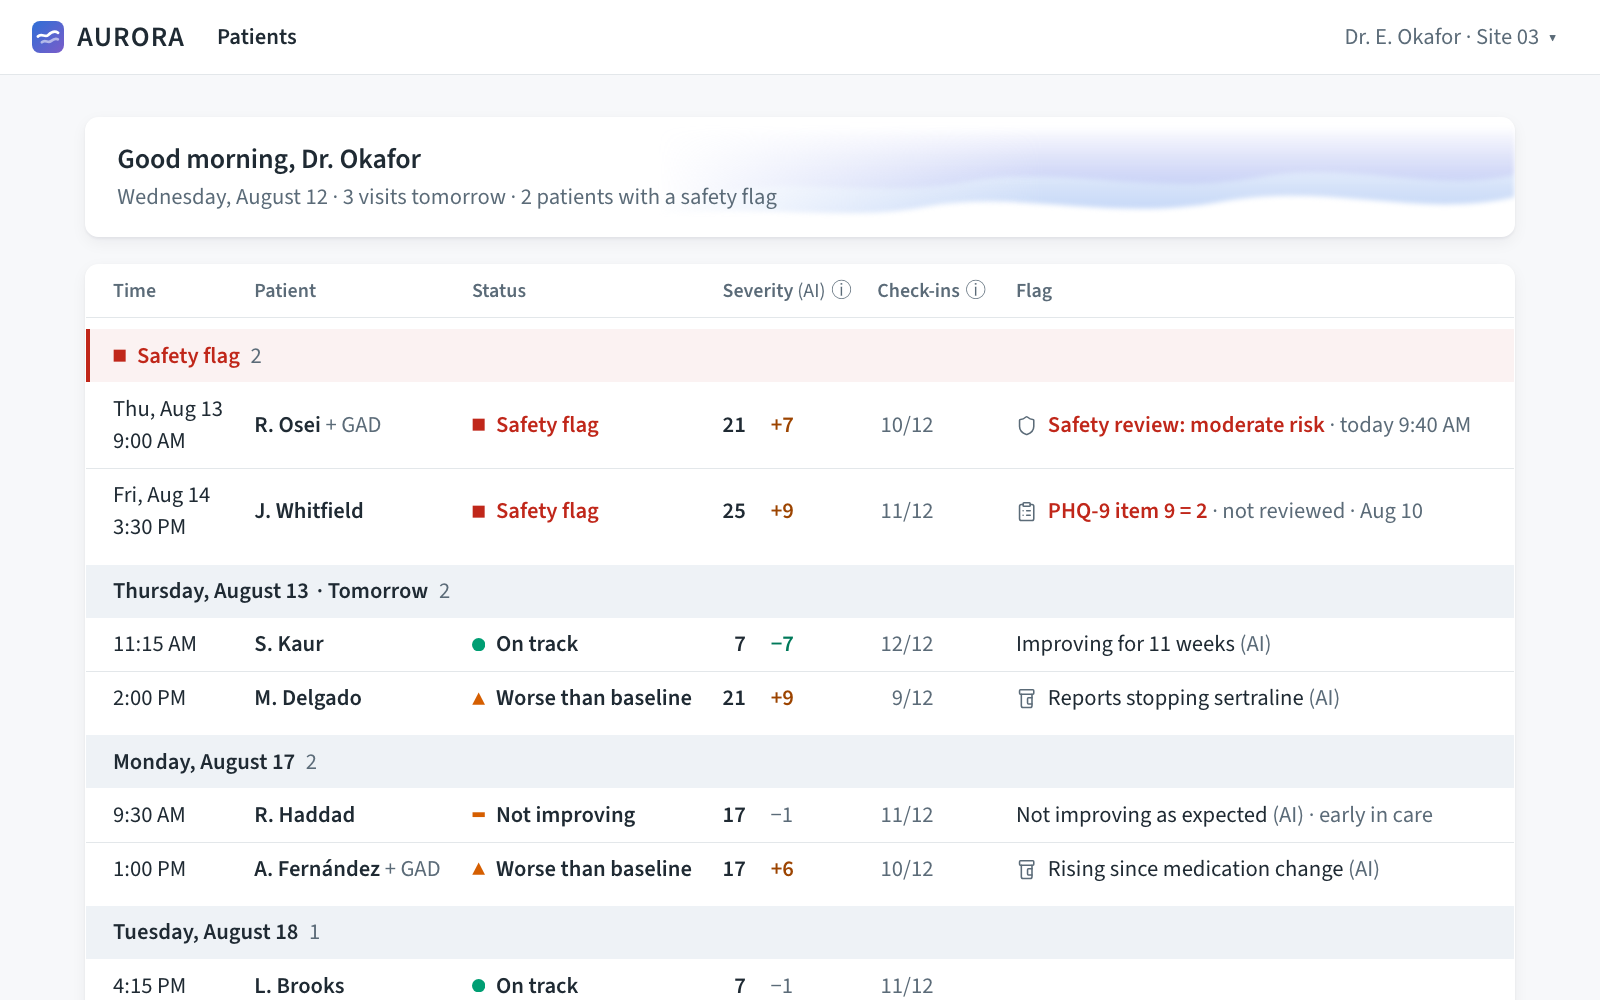
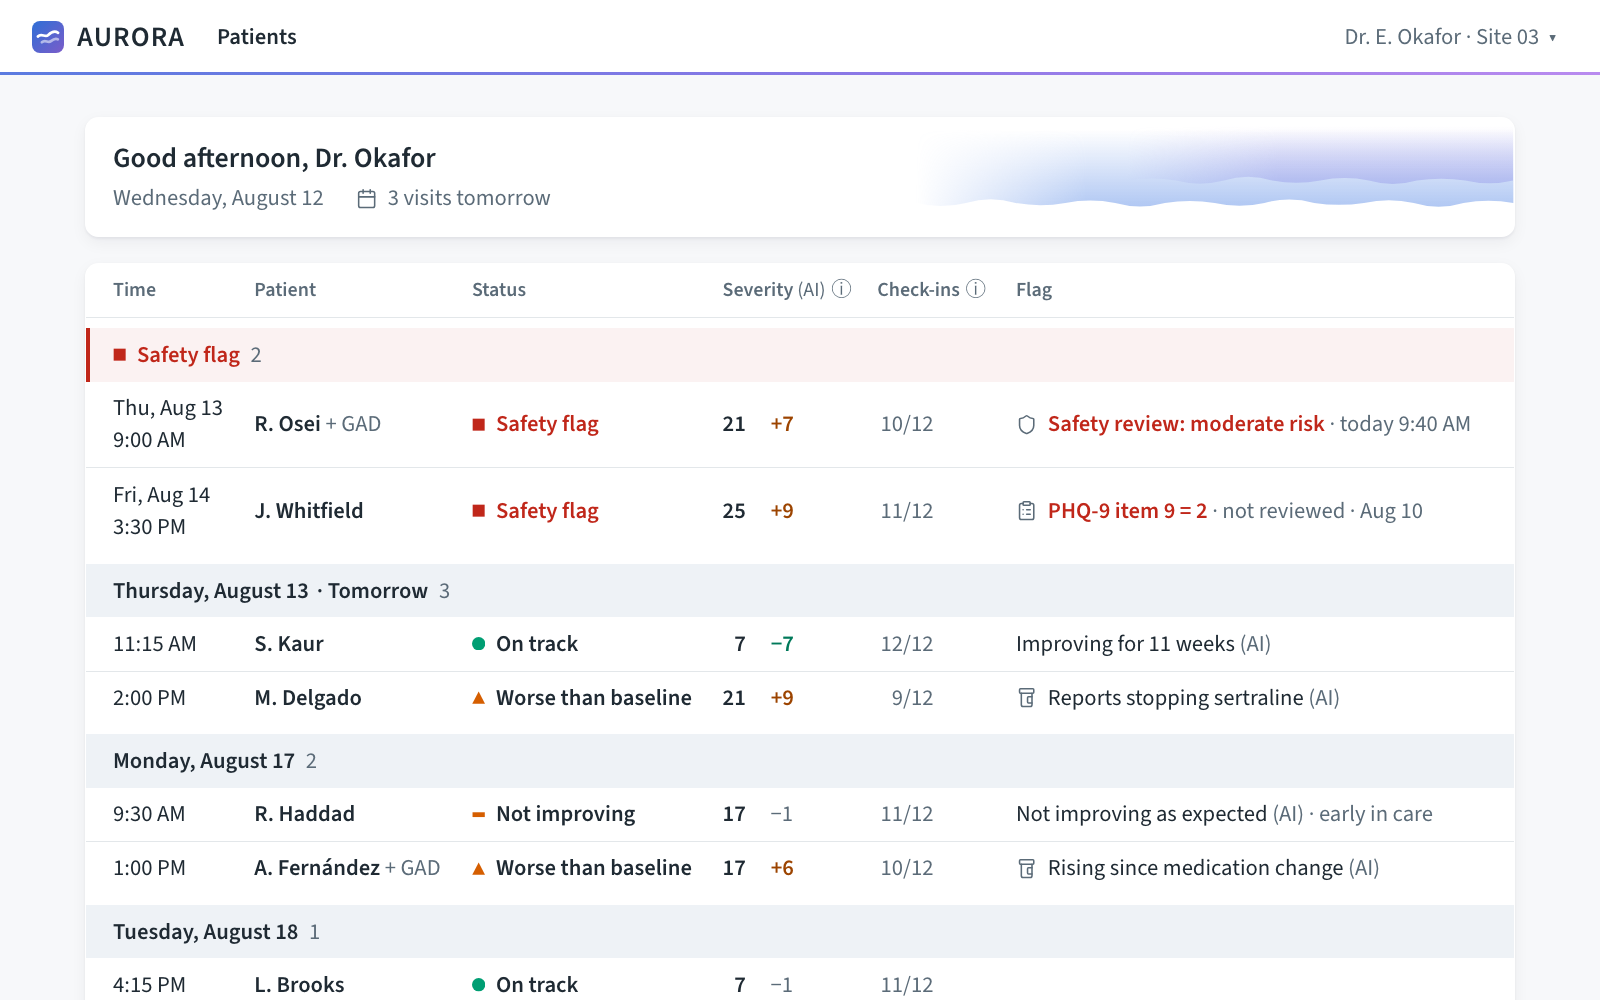
Write the landing page's card and footer lines as full sentences
- v3: "It's built around one question: ..."; v2: "It has a calmer
  caseload ..."; v1: "The first mockup had an EHR-style look ..."
- Footer: "The mockups are part of the AURORA trial, funded by the
  Wellcome Trust. All patient data in them are fictional."
- CHANGELOG: the v1 line as a full sentence, without addressing the
  reader.
- design/landing/v3.png: regenerated for the revised greeting band.

diff --git a/index.html b/index.html
@@ -350,7 +350,7 @@ a.frame:hover{transform:translateY(-3px);box-shadow:var(--shadow-lift)}
           <h2 id="v3-title"><a class="vlink" href="AURORA%20Dashboard%20v3.dc.html">Progress-focused</a></h2>
         </div>
       </div>
-      <p class="summary">Built around one question: is each patient improving as expected?</p>
+      <p class="summary">It’s built around one question: is each patient improving as expected?</p>
       <ul class="points">
         <li>Flags patients who aren’t improving, not only those getting worse</li>
         <li>Puts the patient’s own PHQ-9 first, beside the AI estimate</li>
@@ -384,7 +384,7 @@ a.frame:hover{transform:translateY(-3px);box-shadow:var(--shadow-lift)}
             <h3><a class="vlink" href="AURORA%20Dashboard%20Clinical.dc.html">Clinical</a></h3>
           </div>
         </div>
-        <p class="text">The first mockup, with an EHR-style look: caseload triage, patient detail and session prep, each with four review variants.</p>
+        <p class="text">The first mockup had an EHR-style look: caseload triage, patient detail and session prep, each with four review variants.</p>
         <p class="more-row"><a class="more" href="AURORA%20Dashboard%20Clinical.dc.html">Open v1 <span aria-hidden="true">→</span></a></p>
       </article>
       <article class="card">
@@ -396,7 +396,7 @@ a.frame:hover{transform:translateY(-3px);box-shadow:var(--shadow-lift)}
             <h3><a class="vlink" href="AURORA%20Dashboard%20v2.dc.html">Redesign</a></h3>
           </div>
         </div>
-        <p class="text">A calmer caseload and one patient page that prints as the session brief, built to the design rules. v3 builds on it.</p>
+        <p class="text">It has a calmer caseload and one patient page that prints as the session brief, built to the design rules. v3 builds on it.</p>
         <p class="more-row"><a class="more" href="AURORA%20Dashboard%20v2.dc.html">Open v2 <span aria-hidden="true">→</span></a></p>
       </article>
     </div>
@@ -404,7 +404,7 @@ a.frame:hover{transform:translateY(-3px);box-shadow:var(--shadow-lift)}
 
   <footer class="foot">
     <p>What changed in each version is in the <a href="https://github.com/AURORA-Wellcome/clinician-dashboard-prototype/blob/main/CHANGELOG.md">CHANGELOG</a>, and the design rules are in <a href="https://github.com/AURORA-Wellcome/clinician-dashboard-prototype/blob/main/DESIGN.md">DESIGN.md</a>. Earlier explorations are in the repo’s <code>archive/</code> folder.</p>
-    <p>Part of the AURORA trial, funded by the Wellcome Trust. All patient data in these mockups are fictional.</p>
+    <p>The mockups are part of the AURORA trial, funded by the Wellcome Trust. All patient data in them are fictional.</p>
   </footer>
 
 </main>

diff --git a/CHANGELOG.md b/CHANGELOG.md
@@ -50,7 +50,7 @@ What changed from v1:
 
 `AURORA Dashboard Clinical.dc.html`, August to September 2026.
 
-The first mockup, with a clinical/EHR look. It has three views (caseload triage, patient detail and session prep), each with four review variants you switch between from the review strip at the top.
+The first mockup had a clinical, EHR-style look, with three views (caseload triage, patient detail and session prep), each with four review variants that the review strip at the top switches between.
 
 ## Landing page
 
